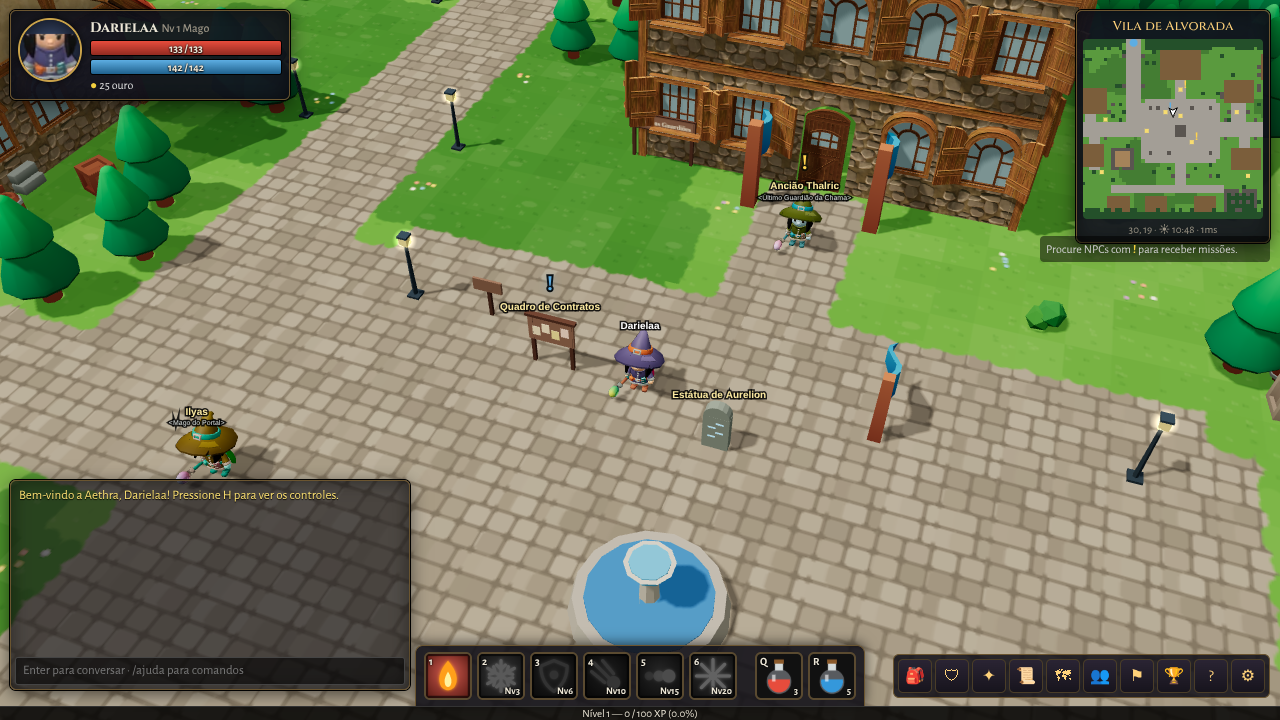
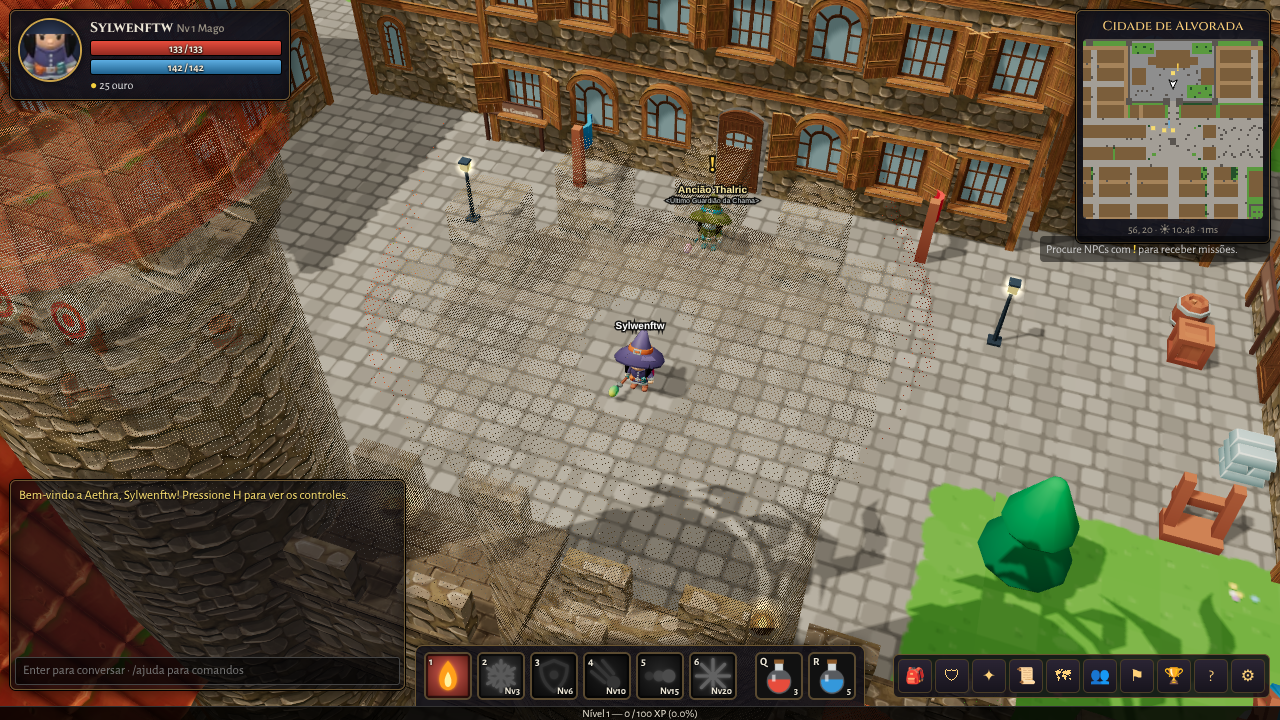
Correções da revisão final e capturas da nova capital
Defeitos confirmados pela revisão (cada um reproduzido por um cético):
- Servidor: um GET com byte nulo (/%00) derrubava o processo; agora
  responde 400. Downloads abortados não vazam mais descritores de
  arquivo (pipeline). Teste de regressão do servidor de arquivos
- Teleporte para a capital usava a coordenada da vila antiga; passa a
  chegar ao lado do mago do portal
- Capital: nenhuma porta dá para árvore, arbusto, poste ou caixote
  (doorIndex/doorFront compartilhados entre o gerador e o cliente);
  125 portas verificadas, todas acessíveis
- Cliente: liberação de esqueletos, materiais e geometrias de atores,
  criaturas e saques (memória estável nas idas e vindas entre zonas);
  textura de tijolo compartilhada não é mais descartada; chão não
  mostra mais a faixa preta além da borda do mapa; seteiras flutuantes
  removidas
- HUD: bate-papo e barra de menus se ajustam em janelas estreitas
- Textos: direção da Névoa (leste), dica inicial, descrição do pacote e
  documento de design
- README com capturas da nova capital

Claude-Session: https://claude.ai/code/session_014CZodo7hXX5q1Jg7ES3eqY

diff --git a/shared/citygen.js b/shared/citygen.js
@@ -3,8 +3,34 @@
 // capela com cemitério e bairros de casas geminadas com becos. As coordenadas das construções
 // especiais e dos NPCs (shared/data/npcs.js) foram planejadas juntas; os quarteirões são preenchidos
 // por um gerador determinístico.
-import { T, O } from './tiles.js';
-import { mulberry32 } from './rng.js';
+import { T, O, OBJ_INFO } from './tiles.js';
+import { mulberry32, hash2 } from './rng.js';
+
+// Largura da fachada em tiles e número de módulos de 2 m (o cliente monta as paredes nessa grade)
+const frontWidth = (st) => (st.face === 'e' || st.face === 'w' ? st.h : st.w);
+const modules = (st) => Math.max(2, Math.floor(frontWidth(st) / 2));
+const NO_DOOR = new Set(['keeptower', 'belltower', 'market']);
+
+// Módulo da fachada onde fica a porta (-1 se a construção não tem porta); o mesmo valor vale no cliente
+export function doorIndex(st) {
+  if (NO_DOOR.has(st.type)) return -1;
+  return st.door ?? Math.floor((modules(st) - 1) / 2);
+}
+
+// Tiles de rua logo em frente à porta (o módulo de 2 m da porta), em coordenadas do mapa
+export function doorFront(st) {
+  const i = doorIndex(st);
+  if (i < 0) return [];
+  const pad = (frontWidth(st) - modules(st) * 2) / 2;
+  const u0 = pad + i * 2, u1 = u0 + 2; // intervalo ao longo da fachada, a partir da esquerda de quem olha de fora
+  const span = (a, b) => { const lo = Math.floor(Math.min(a, b) + 1e-6), hi = Math.ceil(Math.max(a, b) - 1e-6); const r = []; for (let t = lo; t < hi; t++) r.push(t); return r; };
+  switch (st.face) {
+    case 'n': return span(st.x + st.w - u1, st.x + st.w - u0).map((x) => [x, st.y - 1]);
+    case 'e': return span(st.y + st.h - u1, st.y + st.h - u0).map((y) => [st.x + st.w, y]);
+    case 'w': return span(st.y + u0, st.y + u1).map((y) => [st.x - 1, y]);
+    default: return span(st.x + u0, st.x + u1).map((x) => [x, st.y + st.h]);
+  }
+}
 
 export function buildCapital(grid, zone) {
   const rng = mulberry32(zone.gen.seed);
@@ -32,7 +58,10 @@ export function buildCapital(grid, zone) {
   // casa: face = lado da fachada ('n', 's', 'e', 'w'); andares 1–3
   const house = (x, y, w, h, face, extra = {}) => {
     grid.rect(x, y, w, h, (px, py) => { grid.setO(px, py, O.BUILDING); grid.pathMask[idx(px, py)] = 0; });
-    S.push({ kind: 'house', type: 'house', x, y, w, h, face, seed: houseSeed++, floors: 1, ...extra });
+    const st = { kind: 'house', type: 'house', x, y, w, h, face, seed: houseSeed++, floors: 1, ...extra };
+    // casas comuns têm a porta num módulo qualquer da fachada (escolha estável, sem gastar o gerador aleatório)
+    if (st.type === 'house') st.door = Math.floor(hash2(x, y, 71) * modules(st));
+    S.push(st);
   };
   const floorsFor = () => { const r = rng(); return r < 0.4 ? 1 : r < 0.85 ? 2 : 3; };
   const lamp = (x, y) => obj(x, y, O.LAMP);
@@ -246,6 +275,15 @@ export function buildCapital(grid, zone) {
   obj(89, 74, O.LAMP); obj(89, 62, O.LAMP);
   obj(90, 63, O.CANDLE); obj(90, 68, O.CANDLE); // velas na porta da capela
   grid.rect(92, 76, 13, 13, (x, y) => { if (grid.o(x, y) === O.GRAVE && rng() < 0.3) obj(x, y + 1, O.CANDLE); });
+
+  // nenhuma porta dá para uma árvore, arbusto, poste ou caixote: limpa o que bloqueia a frente dela
+  for (const st of S) {
+    if (st.kind !== 'house') continue;
+    for (const [x, y] of doorFront(st)) {
+      if (!grid.in(x, y) || grid.o(x, y) === O.WALL || grid.o(x, y) === O.BUILDING) continue;
+      if (OBJ_INFO[grid.o(x, y)].block) grid.setO(x, y, 0);
+    }
+  }
 
   // portais: Portão Leste (Campos) e Portão Sul (Arena)
   for (const p of zone.portals) pave(p.x, p.y, p.w, p.h);

diff --git a/client/js/three/village.js b/client/js/three/village.js
@@ -5,6 +5,7 @@
 // por material (a geometria de cada peça existe uma vez só e o recorte é feito peça por peça).
 import * as THREE from 'three';
 import { GLTFLoader } from 'three/addons/loaders/GLTFLoader.js';
+import { doorIndex } from '/shared/citygen.js';
 
 const BASE = '/village/';
 const MOD = 200; // módulo da grade, em cm
@@ -59,6 +60,10 @@ export const village = {
   },
 
   has(name) { return this.ready && this.pieces.has(name); },
+
+  isSharedTexture(t) {
+    return Object.values(this.mats).some((m) => m.map === t || m.normalMap === t);
+  },
 
   // Matriz base de uma construção do mapa: centro do terreno, fachada virada para st.face, cm -> m.
   baseMatrix(st) {
@@ -201,7 +206,8 @@ export function villagePlan(st) {
   const W = side ? st.h : st.w, D = side ? st.w : st.h;
   const nx = Math.max(2, Math.floor(W / 2)), nz = Math.max(2, Math.floor(D / 2));
   const rnd = mulberry((st.seed || 1) * 977 + 13);
-  const base = { nx, nz, seed: (st.seed || 1) * 31 + 17 };
+  // a porta vem do mapa (o gerador deixa livre a rua em frente a ela)
+  const base = { nx, nz, seed: (st.seed || 1) * 31 + 17, door: Math.max(0, doorIndex(st)) };
   const stacked = (n, ground = 'stone', upper = 'plaster') => Array.from({ length: n || 1 }, (_, i) => (i === 0 ? ground : upper));
   switch (st.type) {
     case 'keep': return { ...base, floors: stacked(st.floors, 'stone', 'stone'), chimneys: 2, vines: 5, windows: 0.9, shutters: true };
@@ -219,7 +225,7 @@ export function villagePlan(st) {
     default: {
       const ground = rnd() < 0.55 ? 'stone' : 'plaster';
       return {
-        ...base, floors: stacked(st.floors || 1, ground, 'plaster'), door: Math.floor(rnd() * nx),
+        ...base, floors: stacked(st.floors || 1, ground, 'plaster'),
         doorStyle: rnd() < 0.5 ? 'flat' : 'round', chimneys: rnd() < 0.65 ? 1 : 0, vines: rnd() < 0.3 ? 2 : 0,
         shutters: rnd() < 0.5, windows: 0.45 + rnd() * 0.3,
       };

diff --git a/client/js/three/world3d.js b/client/js/three/world3d.js
@@ -245,10 +245,14 @@ export class ZoneScene {
         const tex = new THREE.CanvasTexture(cv);
         tex.colorSpace = THREE.SRGBColorSpace;
         tex.anisotropy = Math.min(8, this.maxAniso);
-        const geo = new THREE.PlaneGeometry(CHUNK, CHUNK);
+        // chunks de borda cobrem só os tiles que existem (o resto da textura seria o vazio preto)
+        const wv = Math.min(CHUNK, z.w - cx * CHUNK), hv = Math.min(CHUNK, z.h - cy * CHUNK);
+        const geo = new THREE.PlaneGeometry(wv, hv);
+        const uv = geo.attributes.uv;
+        for (let i = 0; i < uv.count; i++) uv.setXY(i, uv.getX(i) * (wv / CHUNK), 1 - (1 - uv.getY(i)) * (hv / CHUNK));
         geo.rotateX(-Math.PI / 2);
         const m = new THREE.Mesh(geo, new THREE.MeshLambertMaterial({ map: tex }));
-        m.position.set(cx * CHUNK + CHUNK / 2, 0, cy * CHUNK + CHUNK / 2);
+        m.position.set(cx * CHUNK + wv / 2, 0, cy * CHUNK + hv / 2);
         m.receiveShadow = true;
         this.group.add(m);
       }
@@ -799,7 +803,12 @@ export class ZoneScene {
       if (o.geometry && !objGeoCacheHas(o.geometry)) o.geometry.dispose();
       if (o.material) {
         const ms = Array.isArray(o.material) ? o.material : [o.material];
-        for (const m of ms) { if (m.map && m.map !== glowTex) m.map.dispose(); m.dispose(); }
+        for (const m of ms) {
+          // texturas do pack de prédios são compartilhadas (a pedra das ameias reaproveita a do tijolo)
+          if (m.map && m.map !== glowTex && !village.isSharedTexture(m.map)) m.map.dispose();
+          if (m.normalMap && !village.isSharedTexture(m.normalMap)) m.normalMap.dispose();
+          m.dispose();
+        }
       }
     });
   }

diff --git a/client/style.css b/client/style.css
@@ -186,7 +186,7 @@ input { font-family: var(--font); user-select: text; }
 .tr-obj.ok { color: var(--good); }
 .tr-empty { font-size: 12px; color: #ccc; background: rgba(0, 0, 0, 0.5); padding: 6px; border-radius: 4px; }
 
-#chat { position: absolute; left: 10px; bottom: 30px; width: 400px; height: 210px; display: flex; flex-direction: column; padding: 4px; background: rgba(10, 10, 16, 0.6); }
+#chat { position: absolute; left: 10px; bottom: 30px; width: min(400px, calc(50vw - 245px)); min-width: 200px; height: 210px; display: flex; flex-direction: column; padding: 4px; background: rgba(10, 10, 16, 0.6); }
 #chat-log { flex: 1; overflow-y: auto; font-size: 13px; padding: 2px 4px; user-select: text; }
 #chat-log::-webkit-scrollbar { width: 6px; }
 #chat-log::-webkit-scrollbar-thumb { background: #555; border-radius: 3px; }
@@ -441,11 +441,15 @@ ul.tips { padding-left: 16px; margin: 4px 0; font-size: 13px; line-height: 1.4; 
 .tt-price { margin-top: 4px; font-size: 12px; color: #ccc; }
 .tt-hint { margin-top: 4px; font-size: 11px; color: #85c1e9; }
 
+@media (max-width: 1200px) {
+  /* a barra de menus cabe ao lado da barra de habilidades só em telas largas */
+  #menubar { flex-wrap: wrap; width: 190px; }
+}
 @media (max-width: 900px) {
   #tracker, #lootlog { display: none; }
-  #chat { width: 260px; height: 140px; }
+  #chat { width: 260px; height: 120px; bottom: 76px; }
   #hud-target { top: 90px; width: 220px; }
-  #menubar { flex-wrap: wrap; width: 160px; bottom: 110px; }
+  #menubar { bottom: 76px; }
   .create-wrap { flex-direction: column; align-items: center; }
   .class-list { grid-template-columns: repeat(2, 1fr); }
   .logo-main { font-size: 40px; }

diff --git a/client/js/ui/windows.js b/client/js/ui/windows.js
@@ -480,7 +480,7 @@ export const windowsMixin = {
         Há um mês, <b>Morvath</b>, o Sumo-Guardião da Ordem, traiu seus irmãos: extinguiu a Chama e a partiu em três <b>Brasas</b>, entregando-as a criaturas corrompidas. Desde então, a Névoa avança, e os animais e os mortos se erguem contra os vivos.<br><br>
         Na noite em que a Chama se partiu, uma centelha caiu do céu e atravessou seu peito. Você dormiu por três dias. Agora desperta na <b>Cidade de Alvorada</b>, o último refúgio — e sente a luz ardendo dentro de você.<br><br>
         Você é um <b>Portador</b>, {name}. E Aethra precisa de você.`.replace(/\n\s*/g, ' '), me) }),
-      h('div', { class: 'intro-tip' }, 'Fale com o Ancião Thalric (marcado com ', h('b', { class: 'gold' }, '!'), '), ao norte da praça. Ande com WASD ou clicando no chão. Pressione H a qualquer momento para ver os controles.'),
+      h('div', { class: 'intro-tip' }, 'Fale com o Ancião Thalric (marcado com ', h('b', { class: 'gold' }, '!'), '), logo à sua frente, no pátio do castelo. Ande com WASD ou clicando no chão. Pressione H a qualquer momento para ver os controles.'),
       h('button', { class: 'btn big', onclick: () => { audio.init(); ov.remove(); } }, 'Começar a jornada')));
     document.body.appendChild(ov);
   },

diff --git a/tests/integration.test.js b/tests/integration.test.js
@@ -241,3 +241,25 @@ test('persistência: o personagem volta com o progresso', async () => {
   assert.equal(w.you.char.gold, 25 + 777);
   again.close();
 });
+
+test('servidor de arquivos: caminho com byte nulo é recusado sem derrubar o servidor e o gzip funciona', async () => {
+  const http = await import('node:http');
+  const get = (path, headers = {}) => new Promise((resolve, reject) => {
+    const req = http.request({ host: '127.0.0.1', port: srv.port, path, headers }, (res) => {
+      const chunks = [];
+      res.on('data', (c) => chunks.push(c));
+      res.on('end', () => resolve({ status: res.statusCode, headers: res.headers, body: Buffer.concat(chunks) }));
+    });
+    req.on('error', reject);
+    req.end();
+  });
+  assert.equal((await get('/%00')).status, 400);
+  assert.equal((await get('/shared/%00')).status, 400);
+  const page = await get('/', { 'accept-encoding': 'gzip' });
+  assert.equal(page.status, 200);
+  assert.equal(page.headers['content-encoding'], 'gzip');
+  const again = await get('/', { 'if-none-match': page.headers.etag });
+  assert.equal(again.status, 304);
+  assert.equal((await get('/kaykit/medieval/medieval.glb')).status, 200);
+  assert.equal((await get('/nao-existe.png')).status, 404);
+});

diff --git a/client/js/three/engine.js b/client/js/three/engine.js
@@ -199,8 +199,9 @@ export class Renderer3D {
       glow.position.y = mesh ? 0.2 : 0.38;
       root.add(glow);
     }
+    let beam = null;
     if (r >= 2) {
-      const beam = new THREE.Mesh(new THREE.CylinderGeometry(0.05, 0.12, 2.6, 8, 1, true), new THREE.MeshBasicMaterial({ color, transparent: true, opacity: 0.35, blending: THREE.AdditiveBlending, depthWrite: false }));
+      beam = new THREE.Mesh(new THREE.CylinderGeometry(0.05, 0.12, 2.6, 8, 1, true), new THREE.MeshBasicMaterial({ color, transparent: true, opacity: 0.35, blending: THREE.AdditiveBlending, depthWrite: false }));
       beam.position.y = 1.3;
       root.add(beam);
     }
@@ -211,7 +212,11 @@ export class Renderer3D {
         if (sp) sp.position.y = 0.38 + Math.sin(st.now / 400 + e.id) * 0.06;
         if (mesh) { mesh.rotation.y += dt * 0.7; mesh.position.y = 0.06 + Math.sin(st.now / 500 + ph) * 0.04; }
       },
-      dispose() {},
+      // só o que é próprio do item: sprites, raio de luz (geometria e texturas de ícone/brilho são compartilhadas)
+      dispose() {
+        root.traverse((o) => { if (o.isSprite) o.material.dispose(); });
+        if (beam) { beam.geometry.dispose(); beam.material.dispose(); }
+      },
     };
   }
 

diff --git a/server/net/static.js b/server/net/static.js
@@ -2,6 +2,7 @@
 import fs from 'node:fs';
 import path from 'node:path';
 import zlib from 'node:zlib';
+import { pipeline } from 'node:stream';
 
 const MIME = {
   '.html': 'text/html; charset=utf-8',
@@ -47,6 +48,8 @@ export function createStaticHandler(mounts) {
     } catch {
       res.writeHead(400); res.end(); return true;
     }
+    // bytes nulos fariam fs.stat lançar e derrubar o servidor
+    if (urlPath.includes('\0')) { res.writeHead(400); res.end(); return true; }
     for (const m of mounts) {
       if (!urlPath.startsWith(m.prefix)) continue;
       let rel = urlPath.slice(m.prefix.length);
@@ -63,7 +66,8 @@ export function createStaticHandler(mounts) {
         if (!gz) {
           res.writeHead(200, { ...head, 'Content-Length': st.size });
           if (req.method === 'HEAD') { res.end(); return; }
-          fs.createReadStream(file).pipe(res);
+          // pipeline fecha o arquivo se o cliente abortar o download no meio
+          pipeline(fs.createReadStream(file), res, () => {});
           return;
         }
         gzipped(file, st, (e, data) => {

diff --git a/server/handlers.js b/server/handlers.js
@@ -383,12 +383,9 @@ const HANDLERS = {
     if (!z || !p.char.visited.includes(z.id)) return p.err('Você ainda não descobriu este lugar.');
     if (z.id === p.zone.id) return;
     if (p.inCombat()) return p.err('Não é possível viajar em combate.');
-    let dest;
-    if (z.id === 'town') dest = { x: 24.5, y: 26.5 };
-    else {
-      const ws = Object.values(NPCS).find((x) => x.zone === z.id && x.services.includes('teleport'));
-      dest = ws ? { x: ws.x, y: ws.y + 1.5 } : z.spawn;
-    }
+    // chega ao lado do mago do portal da zona (na capital, Ilyas, na Praça da Chama)
+    const ws = Object.values(NPCS).find((x) => x.zone === z.id && x.services.includes('teleport'));
+    const dest = ws ? { x: ws.x, y: ws.y + 1.5 } : z.spawn;
     world.transfer(p, z.id, dest.x, dest.y);
   },
 

diff --git a/shared/data/quests.js b/shared/data/quests.js
@@ -64,7 +64,7 @@ export const QUESTS = {
       'quando ele bater as patas no chão, saia de perto. E quando ele mirar em você, saia do caminho!',
     progress: 'Presa-de-Ferro ainda vive. Posso sentir a Névoa pulsando a partir da toca dele.',
     complete: 'Sinto... sinto o ar mais leve. Muito bem, Portador. O velho guardião finalmente descansa.\n\n' +
-      'Mas o que vi enquanto você lutava me preocupa. A Névoa não vem daqui. Ela vem do oeste... da Floresta Sussurrante.',
+      'Mas o que vi enquanto você lutava me preocupa. A Névoa não vem daqui. Ela vem do leste... da Floresta Sussurrante.',
     objectives: [{ type: 'kill', target: 'boar_boss', count: 1 }],
     rewards: { xp: 900, gold: 120, items: [['pot_hp_2', 3], ['enh_stone', 1]] },
   },

diff --git a/client/js/three/castle3d.js b/client/js/three/castle3d.js
@@ -129,12 +129,6 @@ export function buildFortifications(structs, mats, onFlag) {
         const mx = cx + Math.sin(a) * (r + 0.05), mz = cz + Math.cos(a) * (r + 0.05);
         stone.box(mx - 0.28, H + 0.25, mz - 0.28, mx + 0.28, H + 1.0, mz + 0.28);
       }
-      // janelinhas escuras (seteiras)
-      for (let k = 0; k < 4; k++) {
-        const a = (k / 4) * Math.PI * 2 + 0.4;
-        const wx = cx + Math.sin(a) * (r + 0.02), wz = cz + Math.cos(a) * (r + 0.02);
-        iron.box(wx - 0.09, H * 0.55, wz - 0.09, wx + 0.09, H * 0.55 + 0.8, wz + 0.09);
-      }
       if (s.castle || s.w >= 3) {
         const rh = s.castle ? 4.2 : 3.2;
         roof.cone(cx, cz, r + 0.55, H + 0.9, rh);

diff --git a/client/js/three/characters.js b/client/js/three/characters.js
@@ -251,6 +251,10 @@ class CharacterActor {
 
   dispose() {
     this.mixer.stopAllAction();
+    this.mixer.uncacheRoot(this.model);
+    // textura de ossos do esqueleto e materiais próprios (as geometrias e texturas vêm do modelo compartilhado)
+    this.model.traverse((o) => { if (o.isSkinnedMesh && o.skeleton) o.skeleton.dispose(); });
+    for (const m of this.mats) m.dispose();
   }
 }
 
